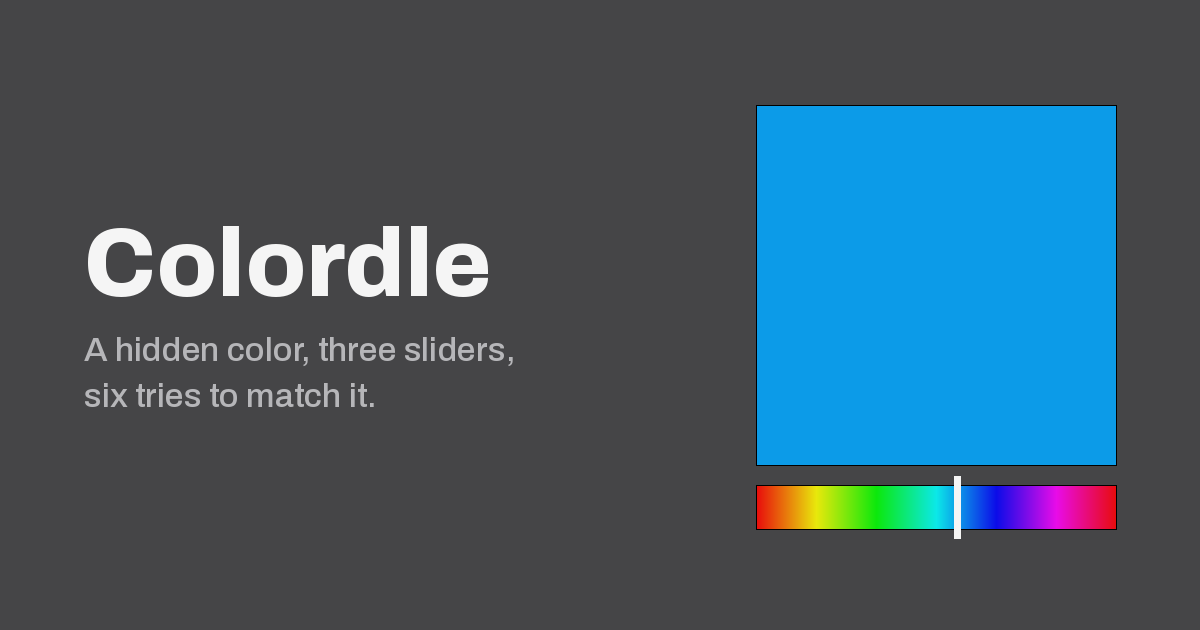
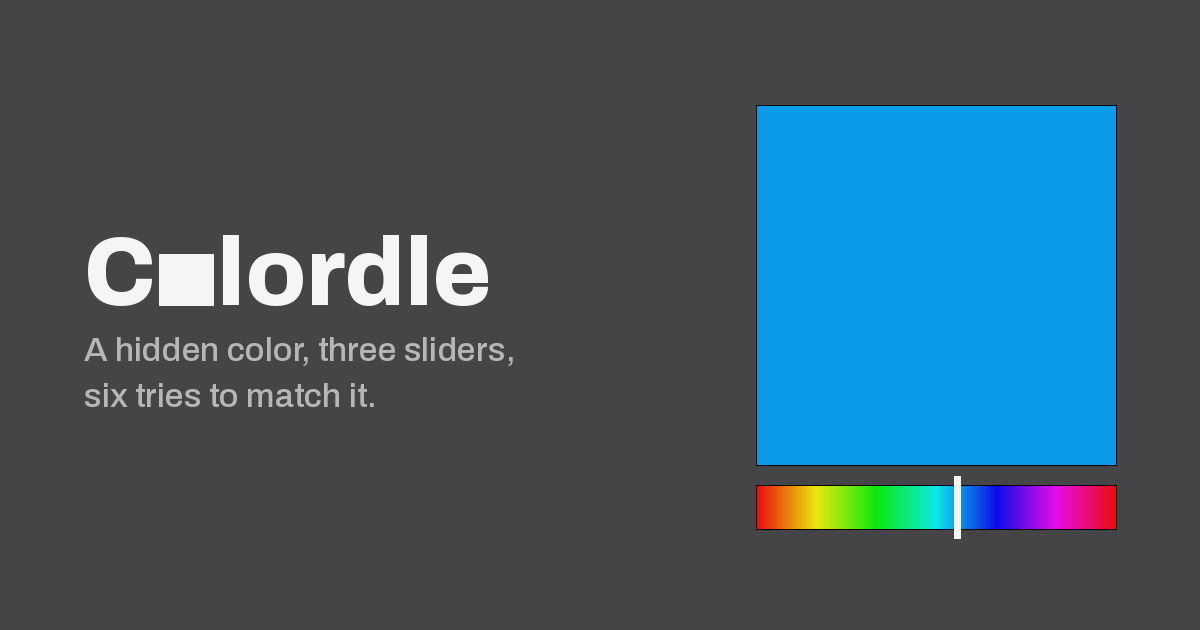
Add files via upload

Changed region(s): [[0.0617, 0.3619, 0.4317, 0.4825]]

diff --git a/colordle/index.html b/colordle/index.html
@@ -7,6 +7,10 @@
 <meta name="description" content="A hidden color, three sliders, six tries to match it. A new set every day.">
 <meta name="theme-color" content="#58585a">
 
+<link rel="icon" href="favicon.svg" type="image/svg+xml">
+<link rel="icon" href="favicon-32.png" sizes="32x32" type="image/png">
+<link rel="apple-touch-icon" href="apple-touch-icon.png">
+
 <!-- SOCIAL PREVIEW — the one thing in this file that can't configure itself.
      Link crawlers don't run JavaScript, so these URLs have to be written out in
      full. If you ever move the game, update these three lines and the SITE
@@ -75,6 +79,24 @@
     font-weight:800;
     letter-spacing:-.03em;
     margin:0;
+  }
+
+  /* The chip stands in for the first 'o'. Every number here is that glyph's
+     own metric in Archivo at weight 800, so the word keeps its rhythm: the
+     margins are the 'o' side bearings, the width is its ink width, and the
+     height is the x-height with no overshoot — round letters overshoot the
+     x-line, a flat-sided square must not.
+     It is ink rather than brand blue on purpose. In the app nothing may
+     compete with the color being judged, and a solid white chip is already
+     this game's own symbol for a matched channel. */
+  .wordmark .oh{
+    display:inline-block;
+    width:.5608em;
+    height:.5260em;
+    margin:0 .0369em 0 .0374em;
+    border-radius:.02em;
+    background:var(--ink);
+    vertical-align:baseline;
   }
 
   .meta{
@@ -477,7 +499,7 @@
 <main class="app">
 
   <header>
-    <h1 class="wordmark">Colordle</h1>
+    <h1 class="wordmark">C<i class="oh" aria-hidden="true"></i><span class="sr">o</span>lordle</h1>
     <div class="meta" id="meta">
       <span id="puzzleNo">No. 1</span>
       <button class="mode" id="statsBtn" type="button">Stats</button>
